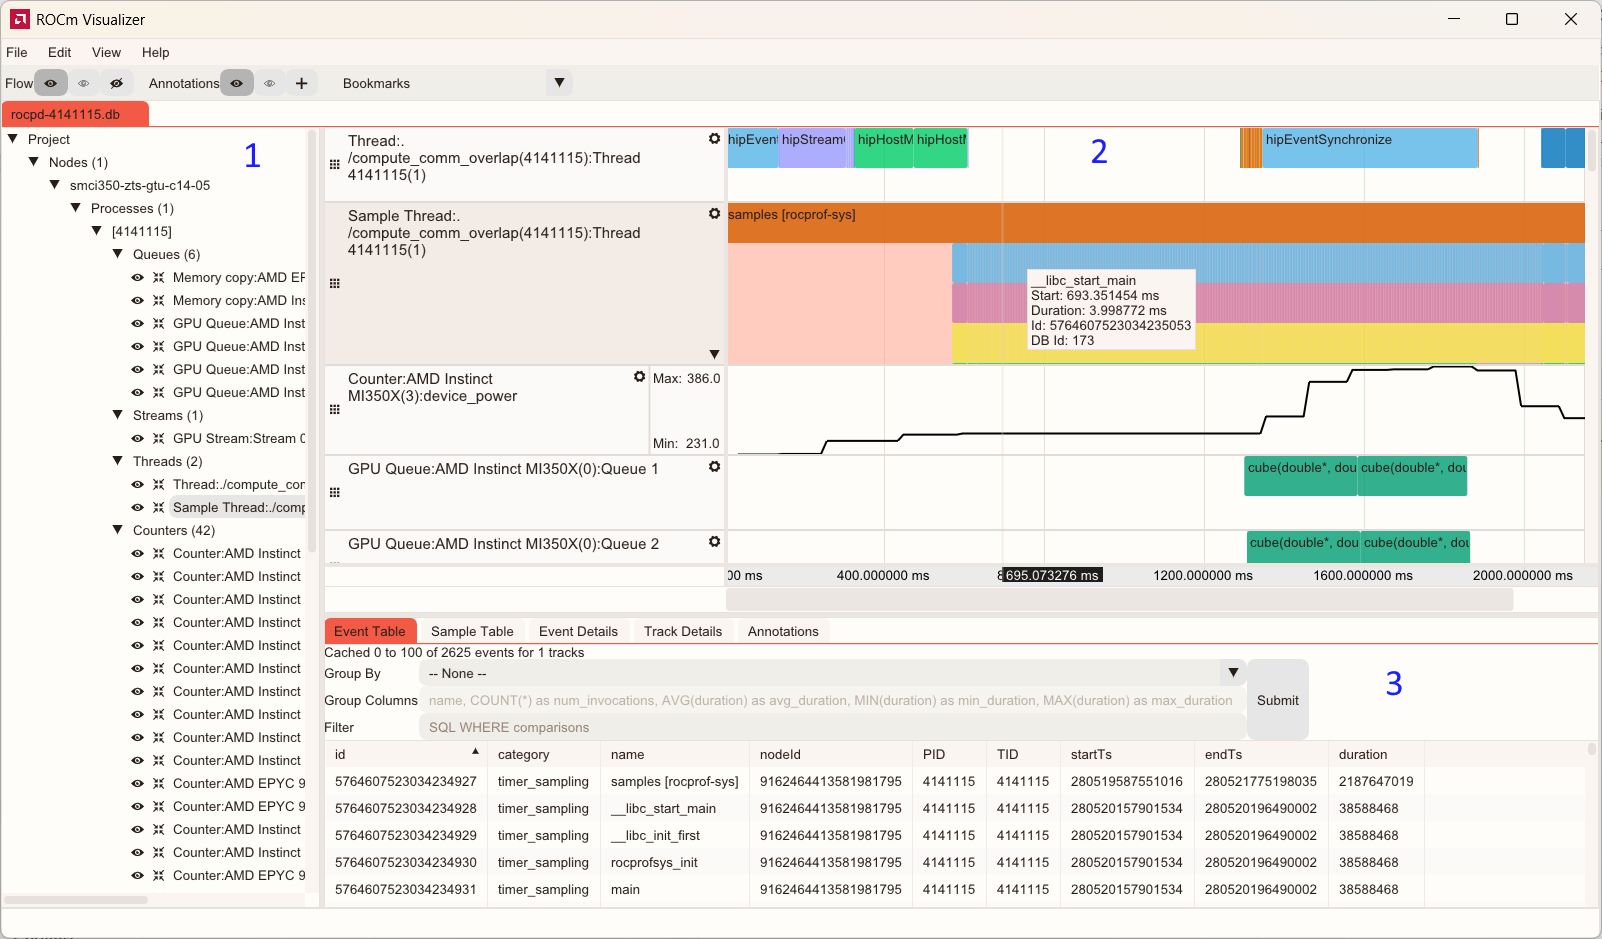
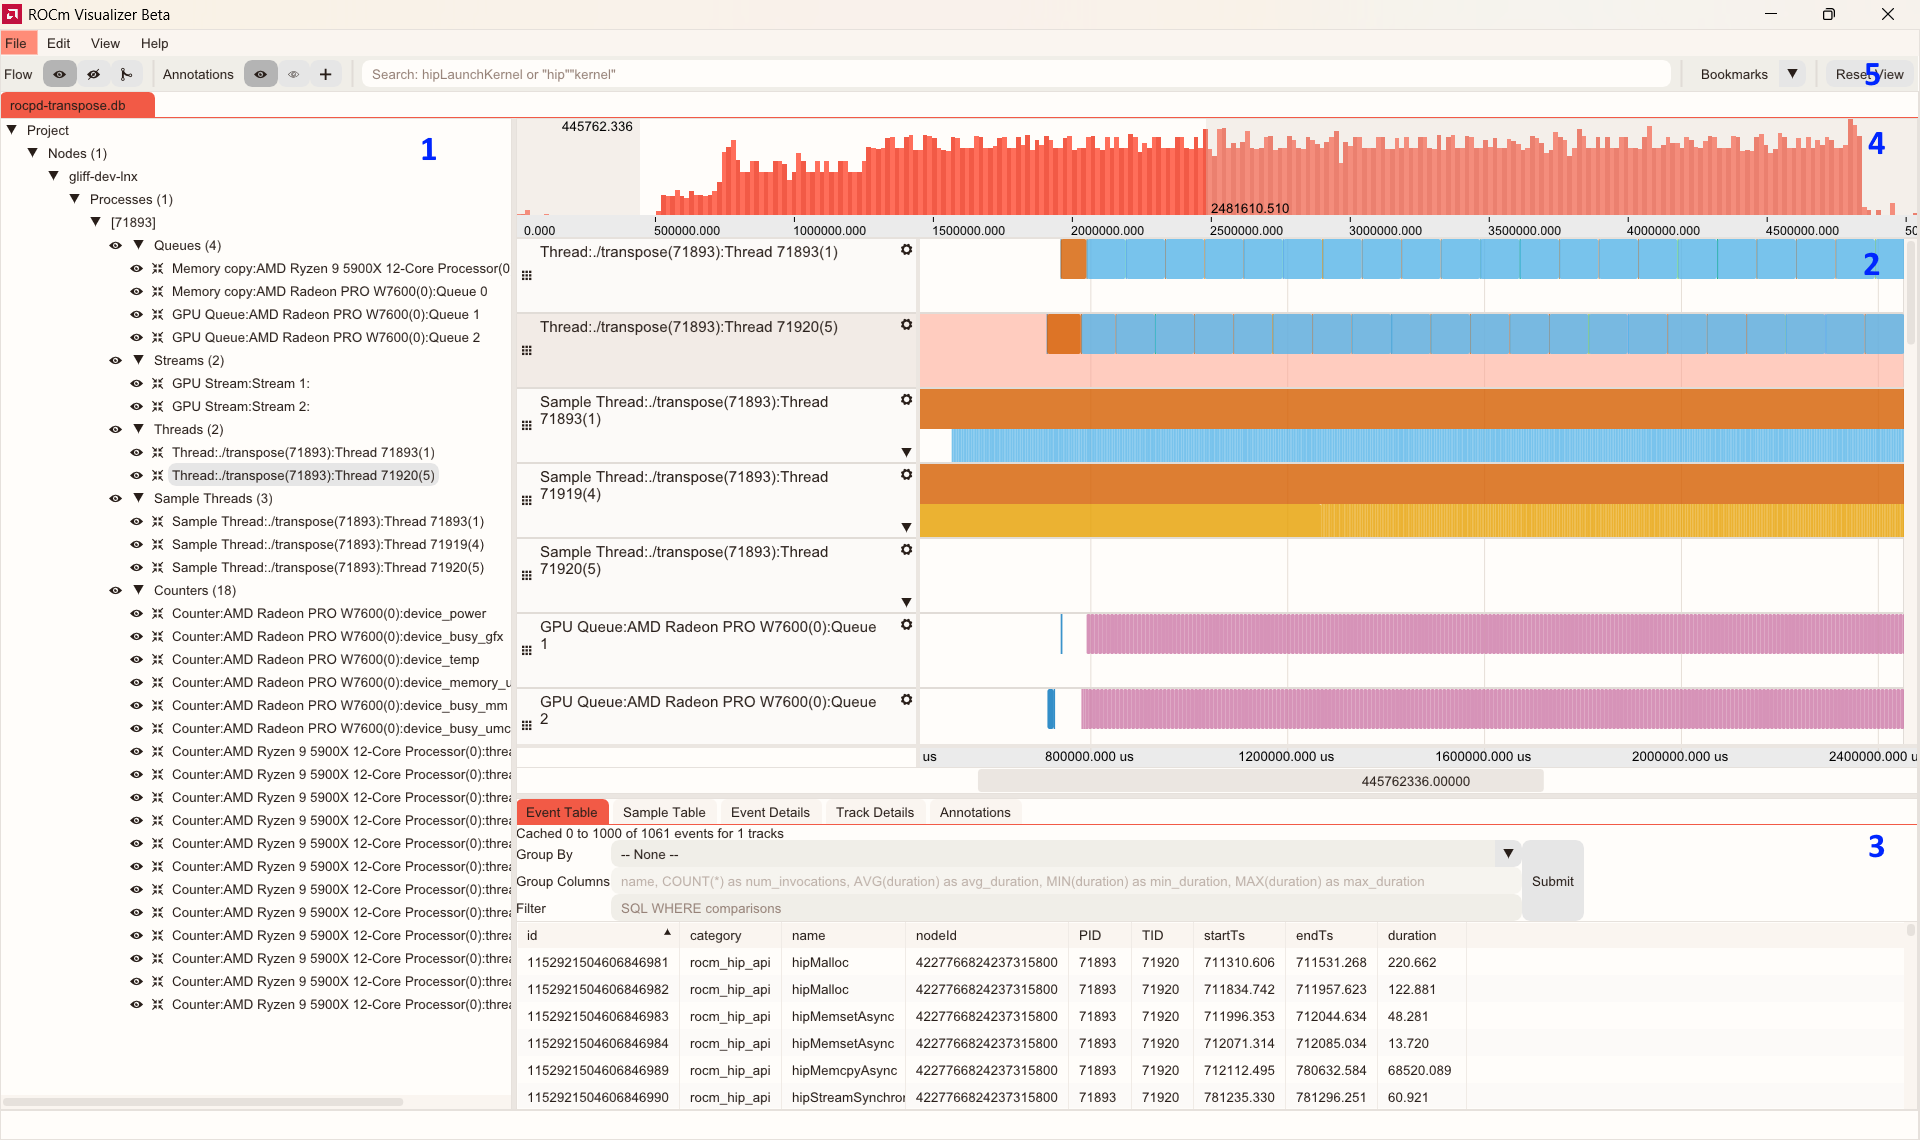
Updated readme, changes and bumped version to 0.6.0

diff --git a/README.md b/README.md
@@ -2,7 +2,7 @@
 A visualizer for the ROCm Profiler Tools. 
 
 ## Install
-Currently the application is deployed as a single executable.  No installation necessary.
+Currently the application is deployed as a single executable.  No installation is necessary.
 
 ## Usage Instructions
 
@@ -24,6 +24,8 @@ Use `File` -> `Save As` to create a new project, use `File` -> `Save` to overwri
 1. System Topology Tree: Expand tree nodes to see relationship between tracks.
 2. Timeline View: List of tracks containing event or sample counter data.
 3. Advanced Details Area: Shows detailed information about selected events and tracks. 
+4. Histogram Area: Shows an event density map.
+5. Toolbar: Provides controls for various functions.
 
 ### Controls / Interactions
 1. System Topology Tree
@@ -37,9 +39,13 @@ Use `File` -> `Save As` to create a new project, use `File` -> `Save` to overwri
     - Pan and scroll the timeline view using the scrollbars.
     - Dragging the mouse on the *Graph* area of the track will also scroll and pan the view.
     - When hovering over the *Graph* area the scroll wheel will zoom the view.
+    - The WASD and arrow keys can be used to zoom and pan the view as well:
+        - W / S: Zoom in and out respectively.
+        - A or Left Arrow / D or Right Arrow: Pan left and right respectively.
+        - Up Arrow / Down Arrow: Scroll track list up and down.
     - When hovering over the *Description* area of the track the scroll wheel will scroll the track list.
     - Display options for each track can be accessed by clicking the gear icon in track's *Description* area.
-    - Clicking the *Description* area will select or deselect the track.  When selected, the track details will be displayed in the *Track Details* pane. Additonally, depending on the track type, the *Event Table* or *Sample Table* tabs in the *Advanced Details Area" will be populated by the contents of the track. 
+    - Clicking the *Description* area will select or deselect the track.  When selected, the track details will be displayed in the *Track Details* pane. Additionally, depending on the track type, the *Event Table* or *Sample Table* tabs in the *Advanced Details Area" will be populated by the contents of the track. 
     - Clicking on an *Event* in the *Graph* area will select or deselect an event. When selected, details for the event can be seen in the *Event Details* tab of the *Advanced Details Area*.
     - Double clicking on the *Graph* will start a *Time Range Filter* selection.  Double click again to finish the selection.  Double click again to clear the selection.
     - Tracks can be resized by hovering over and dragging the separator lines between tracks.
@@ -51,9 +57,9 @@ Use `File` -> `Save As` to create a new project, use `File` -> `Save` to overwri
 
 3. Advanced Details Area
     - Use the tabs to see different detailed information events and tracks
-    - The *Event Details* and *Sample Details* tabs provide a list (table) of the events or samples contained the selected track or tracks.
+    - The *Event Details* and *Sample Details* tabs provide a list (table) of the events or samples contained in the selected track or tracks.
     - Right click on the column headers to show / hide columns.
-    - In the *Event Table* tab there is a drop down box that allows the events grouped by a column to display aggregated metrics.
+    - In the *Event Table* tab there is a drop-down box that allows the events grouped by a column to display aggregated metrics.
     - Both the *Event Table* and *Sample Table* provide a text input box that can be used to filter the data.  Ex: `min_duration > 2000` will filter all events shorter than 2000 ns.
     - Right click on a table row and select `Go to event` to navigate the timeline view to the highlighted event.
     - Setting a *Time Range Filter* using the timeline view will filter the rows displayed in the table to be contained within the selected time range.
@@ -62,3 +68,17 @@ Use `File` -> `Save As` to create a new project, use `File` -> `Save` to overwri
     - The *Annotations* tab shows a list of user created annotations.
         - Annotations can be individually hidden and shown using this interface.
         - Clicking on a row will bring the associated annotation into view.
+
+4. Histogram Area
+    - Displays an event density histogram map.
+    - When timeline is zoomed the area currently in view is highlighted.
+    - Viewable area can be dragged to scroll timeline view.
+
+5. Toolbar
+    - Provides controls for various application functions.
+    - Buttons for showing and hiding flow information on timeline.
+    - Selecting the flow rendering mode. (Fan or chain mode).
+    - Buttons for showing, hiding and adding Annotations.
+    - A search bar for finding events within the trace.
+    - Controls for adding, removing, and navigating bookmarks.
+    - A button to reset the timeline view to default zoom and pan.

diff --git a/CHANGES.md b/CHANGES.md
@@ -1,3 +1,46 @@
+## 0.6.0
+
+### Features and Improvements
+
+- **Search**
+  - New search bar added to Toolbar.
+  - Searches entire trace for events matching search text.
+  - Results displayed in tabular format.
+  - Clicking result navigates view to event. 
+
+- **Trace Histogram**
+  - New histogram plot displaying the event density of trace data.
+  - Trace can be panned by interacting with histogram.
+
+- **Timeline**
+  - WASD keyboard navigation now supported.
+  - Selected event outlines rendering improved.
+  - Reset view button added to Toolbar.
+  - Improved flow rendering. Chain mode now available.
+
+- **Sidebar**
+  - New feature to hide / show all tracks in a group.
+
+- **Misc UI**
+  - Time formatting options applied to time fields in tables and other analysis panel views.
+  - Splitter separator bar highlight when hovered.
+  - Show confirmation dialog before closing the application.
+  - Various small layout spacing tweaks and improvements.
+  - Menu options added to show hide various UI panels, sidebar, analysis pane, and histogram.
+
+- **Backend**
+  - Performance improvements
+  - Initial support for version 4 schema files
+
+### Fixes
+
+- Don't allow user to scroll / pan past trace's extents.
+- Fixed: Application failed to start if binary is in read only folder. (Log and ini files now saved to config folder).
+- Fixed: Sidebar ImGui id collision error.
+
+### Known Issues
+- Zooming in a large amount on sample counter tracks may cause plot to not render.
+
 ## 0.1.6
 
 ### Features and Improvements
